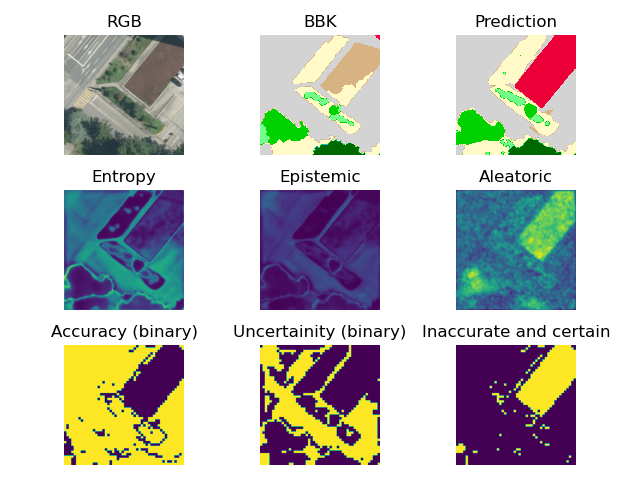
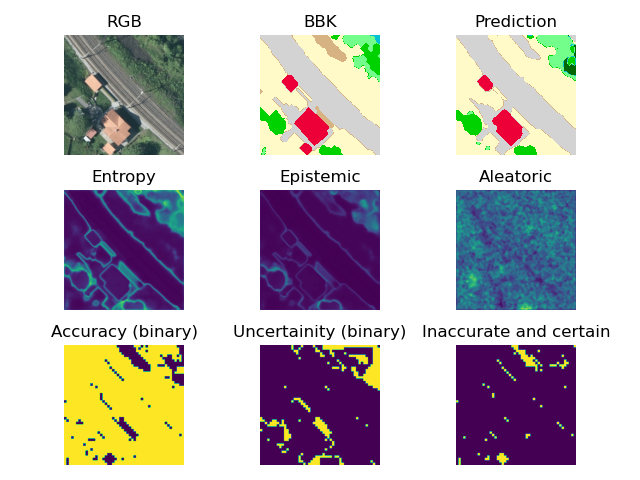
some good examples

diff --git a/test_aleatoric.py b/test_aleatoric.py
@@ -16,6 +16,20 @@ import numpy as np
 from tqdm import tqdm
 from sklearn.metrics import confusion_matrix
 
+# dropout activation and deactivation
+def enable_dropout(model):
+	""" Function to enable the dropout layers during test-time """
+	for m in model.modules():
+		if m.__class__.__name__.startswith('Dropout'):
+			m.train()
+	#print("activated dropout")
+
+def disable_dropout(model):
+	""" Function to enable the dropout layers during test-time """
+	for m in model.modules():
+		if m.__class__.__name__.startswith('Dropout'):
+			m.eval()
+	#print("disabled dropout")
 # Source to compute entropy and mutual information : 
 # https://stackoverflow.com/questions/63285197/measuring-uncertainty-using-mc-dropout-on-pytorch
 def evaluate_uncertainty(net,
@@ -61,15 +75,21 @@ def evaluate_uncertainty(net,
              #loop to add the noise
             for k in range(image_aleatoric.size()[0]):
                 img = image_aleatoric[k,:,:,:].cpu().numpy()
+                change_brightContrast = A.augmentations.transforms.RandomBrightnessContrast(p=1)
                 add_noise = A.augmentations.transforms.GaussNoise (var_limit=20, mean=0, per_channel=True, always_apply=False, p=1)
-                image_aleatoric[k,:,:,:] = torch.tensor(add_noise(image=img)["image"]).to(device=device, dtype=torch.float32)
-
+                image_aleatoric[k,4:7,:,:] = torch.tensor(add_noise(image=img)["image"]).to(device=device, dtype=torch.float32)
+                image_aleatoric[k,:4,:,:] = torch.tensor(add_noise(change_brightContrast(image=img)["image"])).to(device=device, dtype=torch.float32)
             with torch.no_grad():
-                # predict the mask (pytorch tensor have the following structure : [batch_no, class, pixel_x, pixel_y])
-                mask_pred = net(image)
-
+                # predict with dropout
+                enable_dropout(net)
+                mask_pred = net(doc)
                 # concatenate prediction to the other made on the same batch
                 dropout_predictions = torch.cat((dropout_predictions,mask_pred.cpu().softmax(dim=1).unsqueeze(dim=0)),dim=0)
+                # predict noisy image
+                disable_dropout(net)
+                mask_pred = net(image_aleatoric)
+                
+                # concatenate prediction to the other made on the same batch
                 aleatoric_predictions = torch.cat((aleatoric_predictions,mask_pred.cpu().softmax(dim=1).unsqueeze(dim=0)),dim=0)
                 
                 # compute confidence matrix
@@ -177,13 +197,6 @@ def evaluate_uncertainty(net,
             pu/num_val_batches,
             pavpu/num_val_batches)
 
-
-def enable_dropout(model):
-    """ Function to enable the dropout layers during test-time """
-    for m in model.modules():
-        if m.__class__.__name__.startswith('Dropout'):
-            m.train()
-            #logging.info("activated dropout")
 
 
 if __name__ == '__main__':

diff --git a/example_data_aleatoric.py b/example_data_aleatoric.py
@@ -28,7 +28,7 @@ def disable_dropout(model):
 device = torch.device('cuda' if torch.cuda.is_available() else 'cpu')
 
 # dataset
-bbkd = BBKDataset(zone = ("genf",),split="test", augment=False)
+bbkd = BBKDataset(zone = ("alles",),split="test", augment=False)
 print(len(bbkd))
 dl = DataLoader(bbkd, batch_size=32, shuffle=False)
 x = next(iter(dl))
